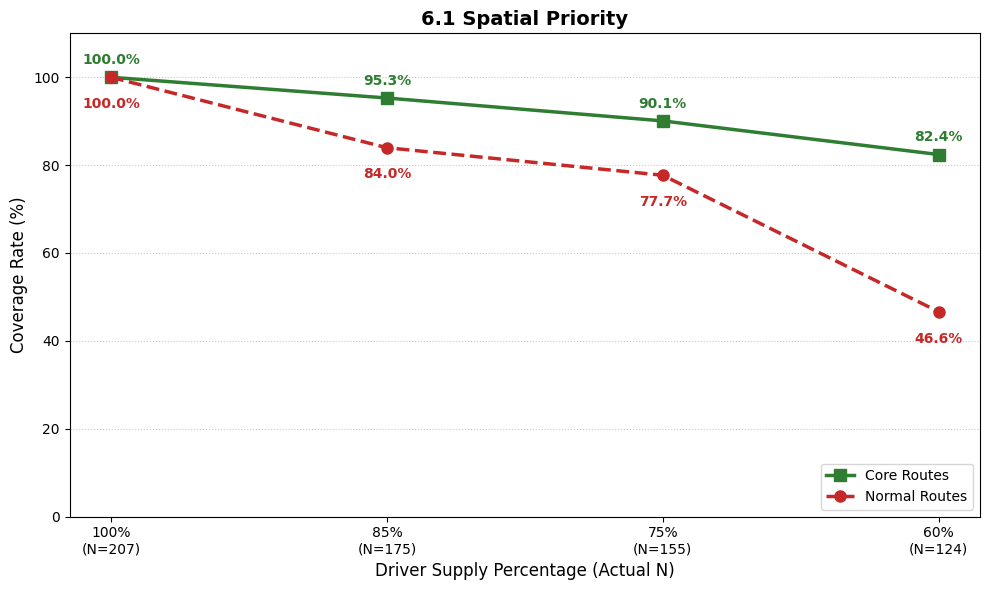
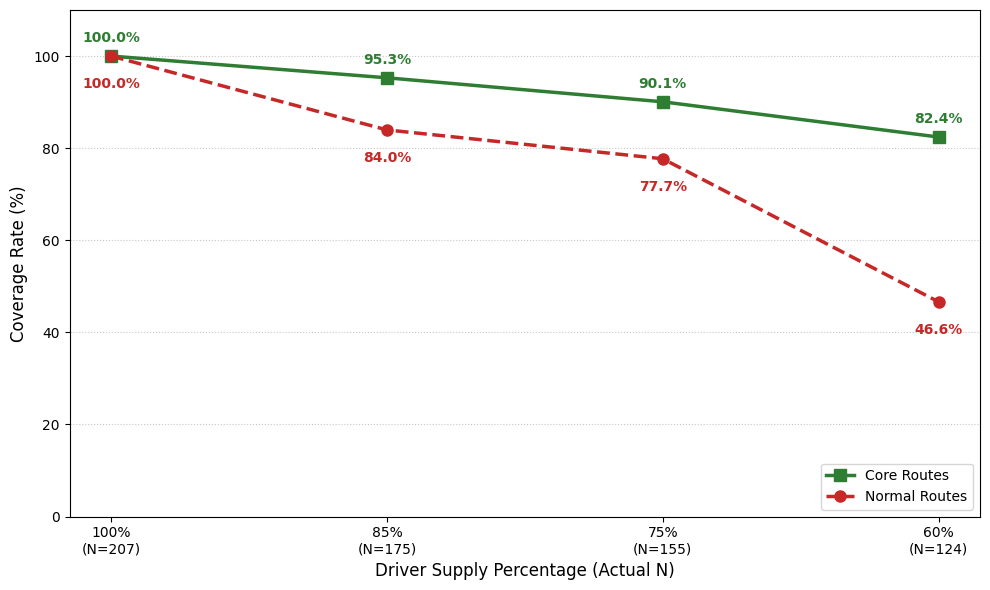
fix: update result evaluation graph

diff --git a/result_evaluation/result_evaluation.py b/result_evaluation/result_evaluation.py
@@ -6,7 +6,7 @@ import matplotlib.pyplot as plt
 import os
 import re
 
-def analyze_experiment_results_cn(folder_path='./model/results'):
+def analyze_experiment_results_cn(folder_path='../model/results'):
     file_pattern = os.path.join(folder_path, "CN_*.json")
     files = glob.glob(file_pattern)
     
@@ -59,7 +59,7 @@ def analyze_experiment_results_cn(folder_path='./model/results'):
     plt.plot(df['X_Label'], df['Normal_Coverage'], marker='o', label='Normal Routes', 
              color='#C62828', linewidth=2.5, markersize=8, linestyle='--')
 
-    plt.title('6.1 Spatial Priority', fontsize=14, fontweight='bold')
+    # plt.title('6.1 Spatial Priority', fontsize=14, fontweight='bold')
     plt.xlabel('Driver Supply Percentage (Actual N)', fontsize=12)
     plt.ylabel('Coverage Rate (%)', fontsize=12)
     plt.ylim(0, 110)
@@ -79,7 +79,7 @@ def analyze_experiment_results_cn(folder_path='./model/results'):
     print("--- CN 實驗數據詳細分析 ---")
     print(df.drop(columns=['X_Label']).to_string(index=False))
 
-def analyze_experiment_results_po(folder_path='./model/results'):
+def analyze_experiment_results_po(folder_path='../model/results'):
     file_pattern = os.path.join(folder_path, "CN_*.json")
     files = glob.glob(file_pattern)
     
@@ -132,7 +132,7 @@ def analyze_experiment_results_po(folder_path='./model/results'):
     plt.plot(df['X_Label'], df['Normal_Coverage'], marker='o', label='Off-peak hours', 
              color='#C62828', linewidth=2.5, markersize=8, linestyle='--')
 
-    plt.title('6.2 Temporal Priority', fontsize=14, fontweight='bold')
+    # plt.title('6.2 Temporal Priority', fontsize=14, fontweight='bold')
     plt.xlabel('Driver Supply Percentage (Actual N)', fontsize=12)
     plt.ylabel('Coverage Rate (%)', fontsize=12)
     plt.ylim(0, 110)
@@ -152,7 +152,7 @@ def analyze_experiment_results_po(folder_path='./model/results'):
     print("--- PO 實驗數據詳細分析 ---")
     print(df.drop(columns=['X_Label']).to_string(index=False))
 
-def analyze_experiment_results_cnpo(folder_path='./model/results'):
+def analyze_experiment_results_cnpo(folder_path='../model/results'):
     # 1. 搜尋所有 CNPO_ 開頭的 JSON 檔案
     file_pattern = os.path.join(folder_path, "CNPO_*.json")
     files = glob.glob(file_pattern)
@@ -219,7 +219,7 @@ def analyze_experiment_results_cnpo(folder_path='./model/results'):
                  marker=style['marker'], linestyle=style['ls'], linewidth=2.5, markersize=8)
 
     # 圖表裝飾
-    plt.title('6.3 Synergistic Effects of Spatio-Temporal Weighting', fontsize=16, fontweight='bold', pad=20)
+    # plt.title('6.3 Synergistic Effects of Spatio-Temporal Weighting', fontsize=16, fontweight='bold', pad=20)
     plt.xlabel('Driver Supply Percentage (Actual N)', fontsize=12)
     plt.ylabel('Service Coverage Rate (%)', fontsize=12)
     plt.ylim(-5, 110)
